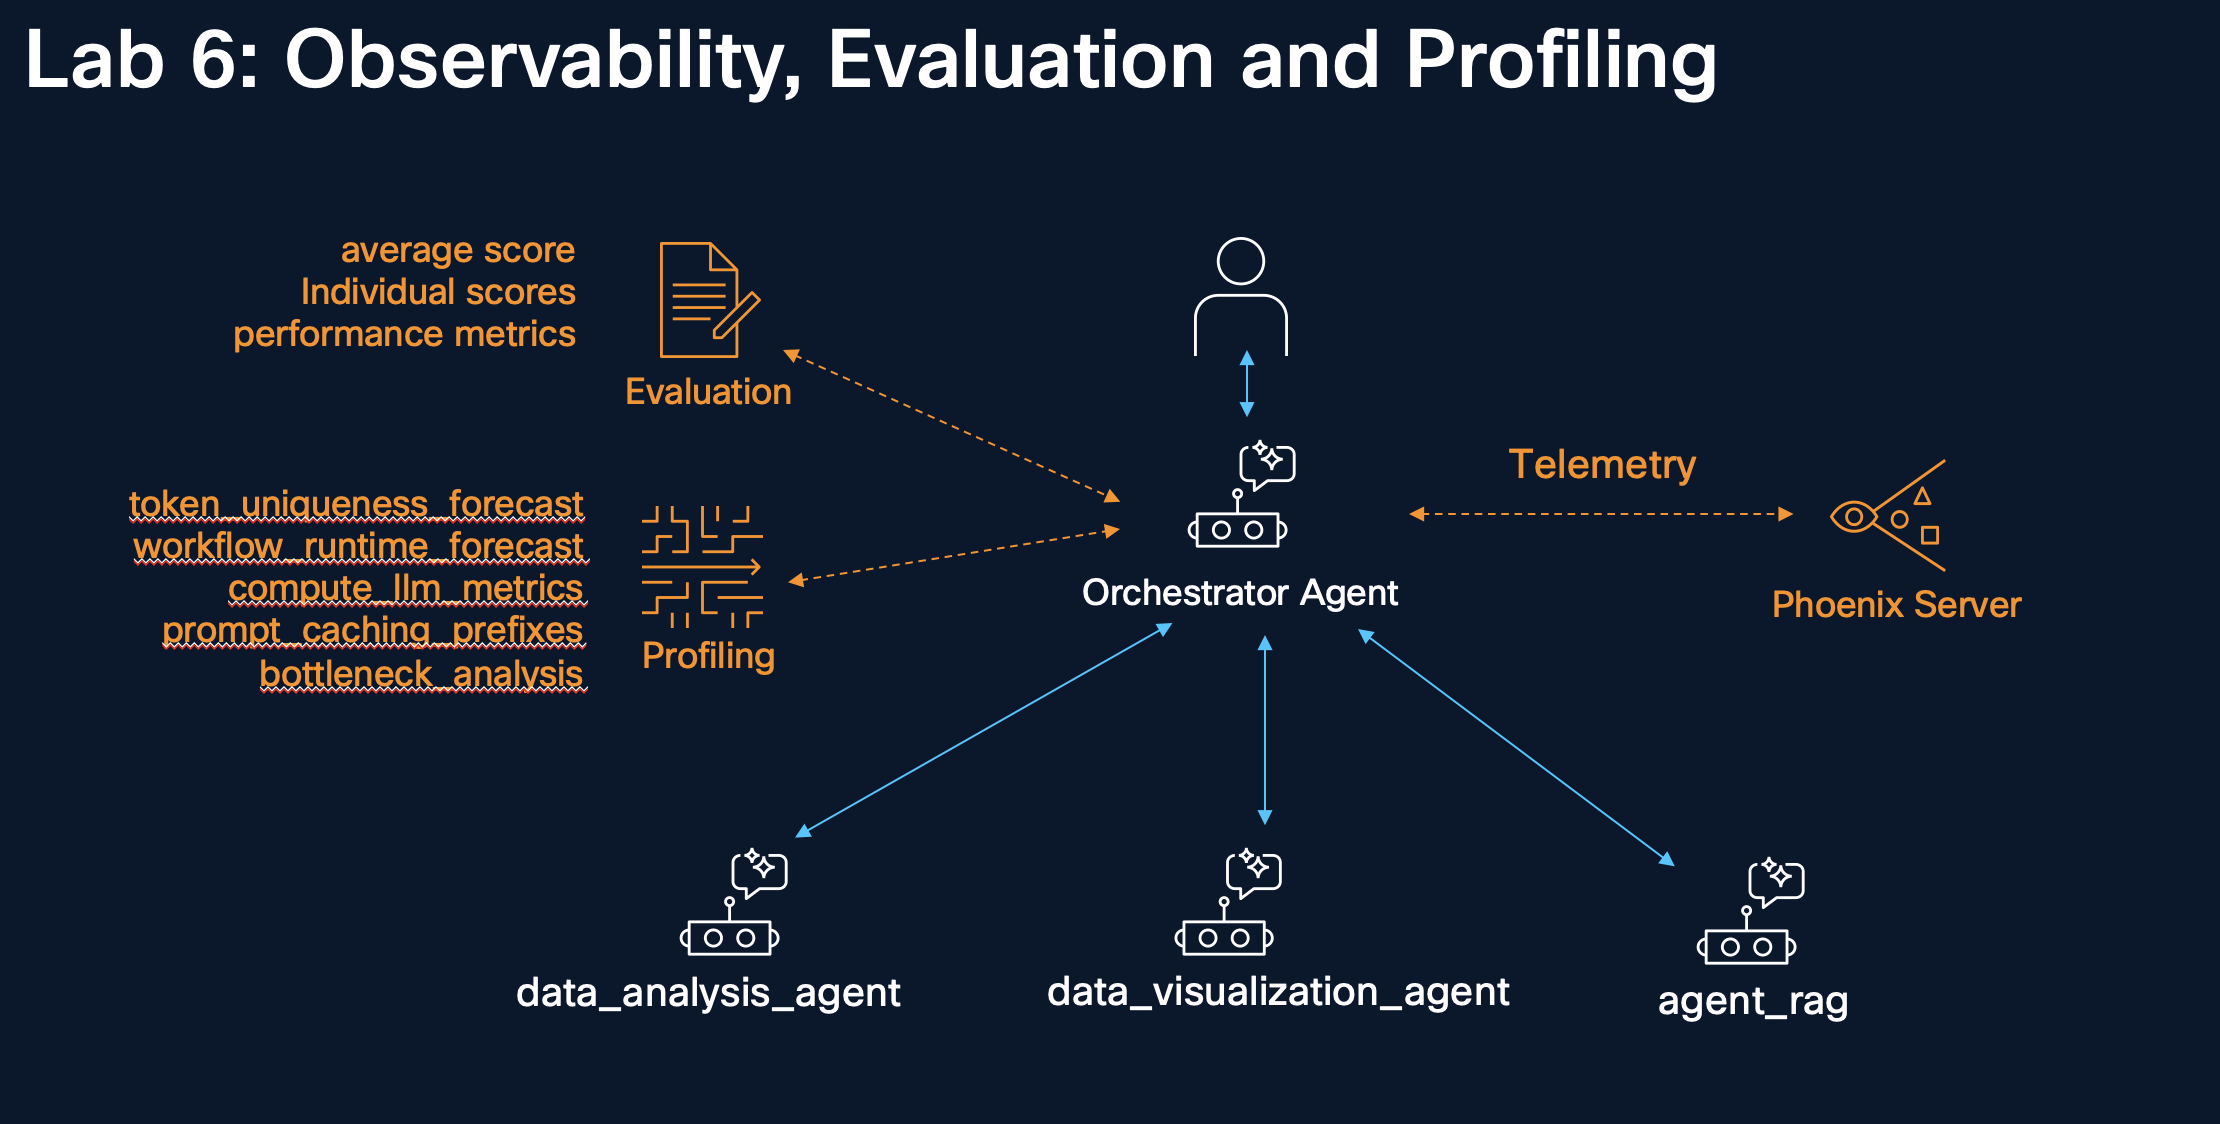
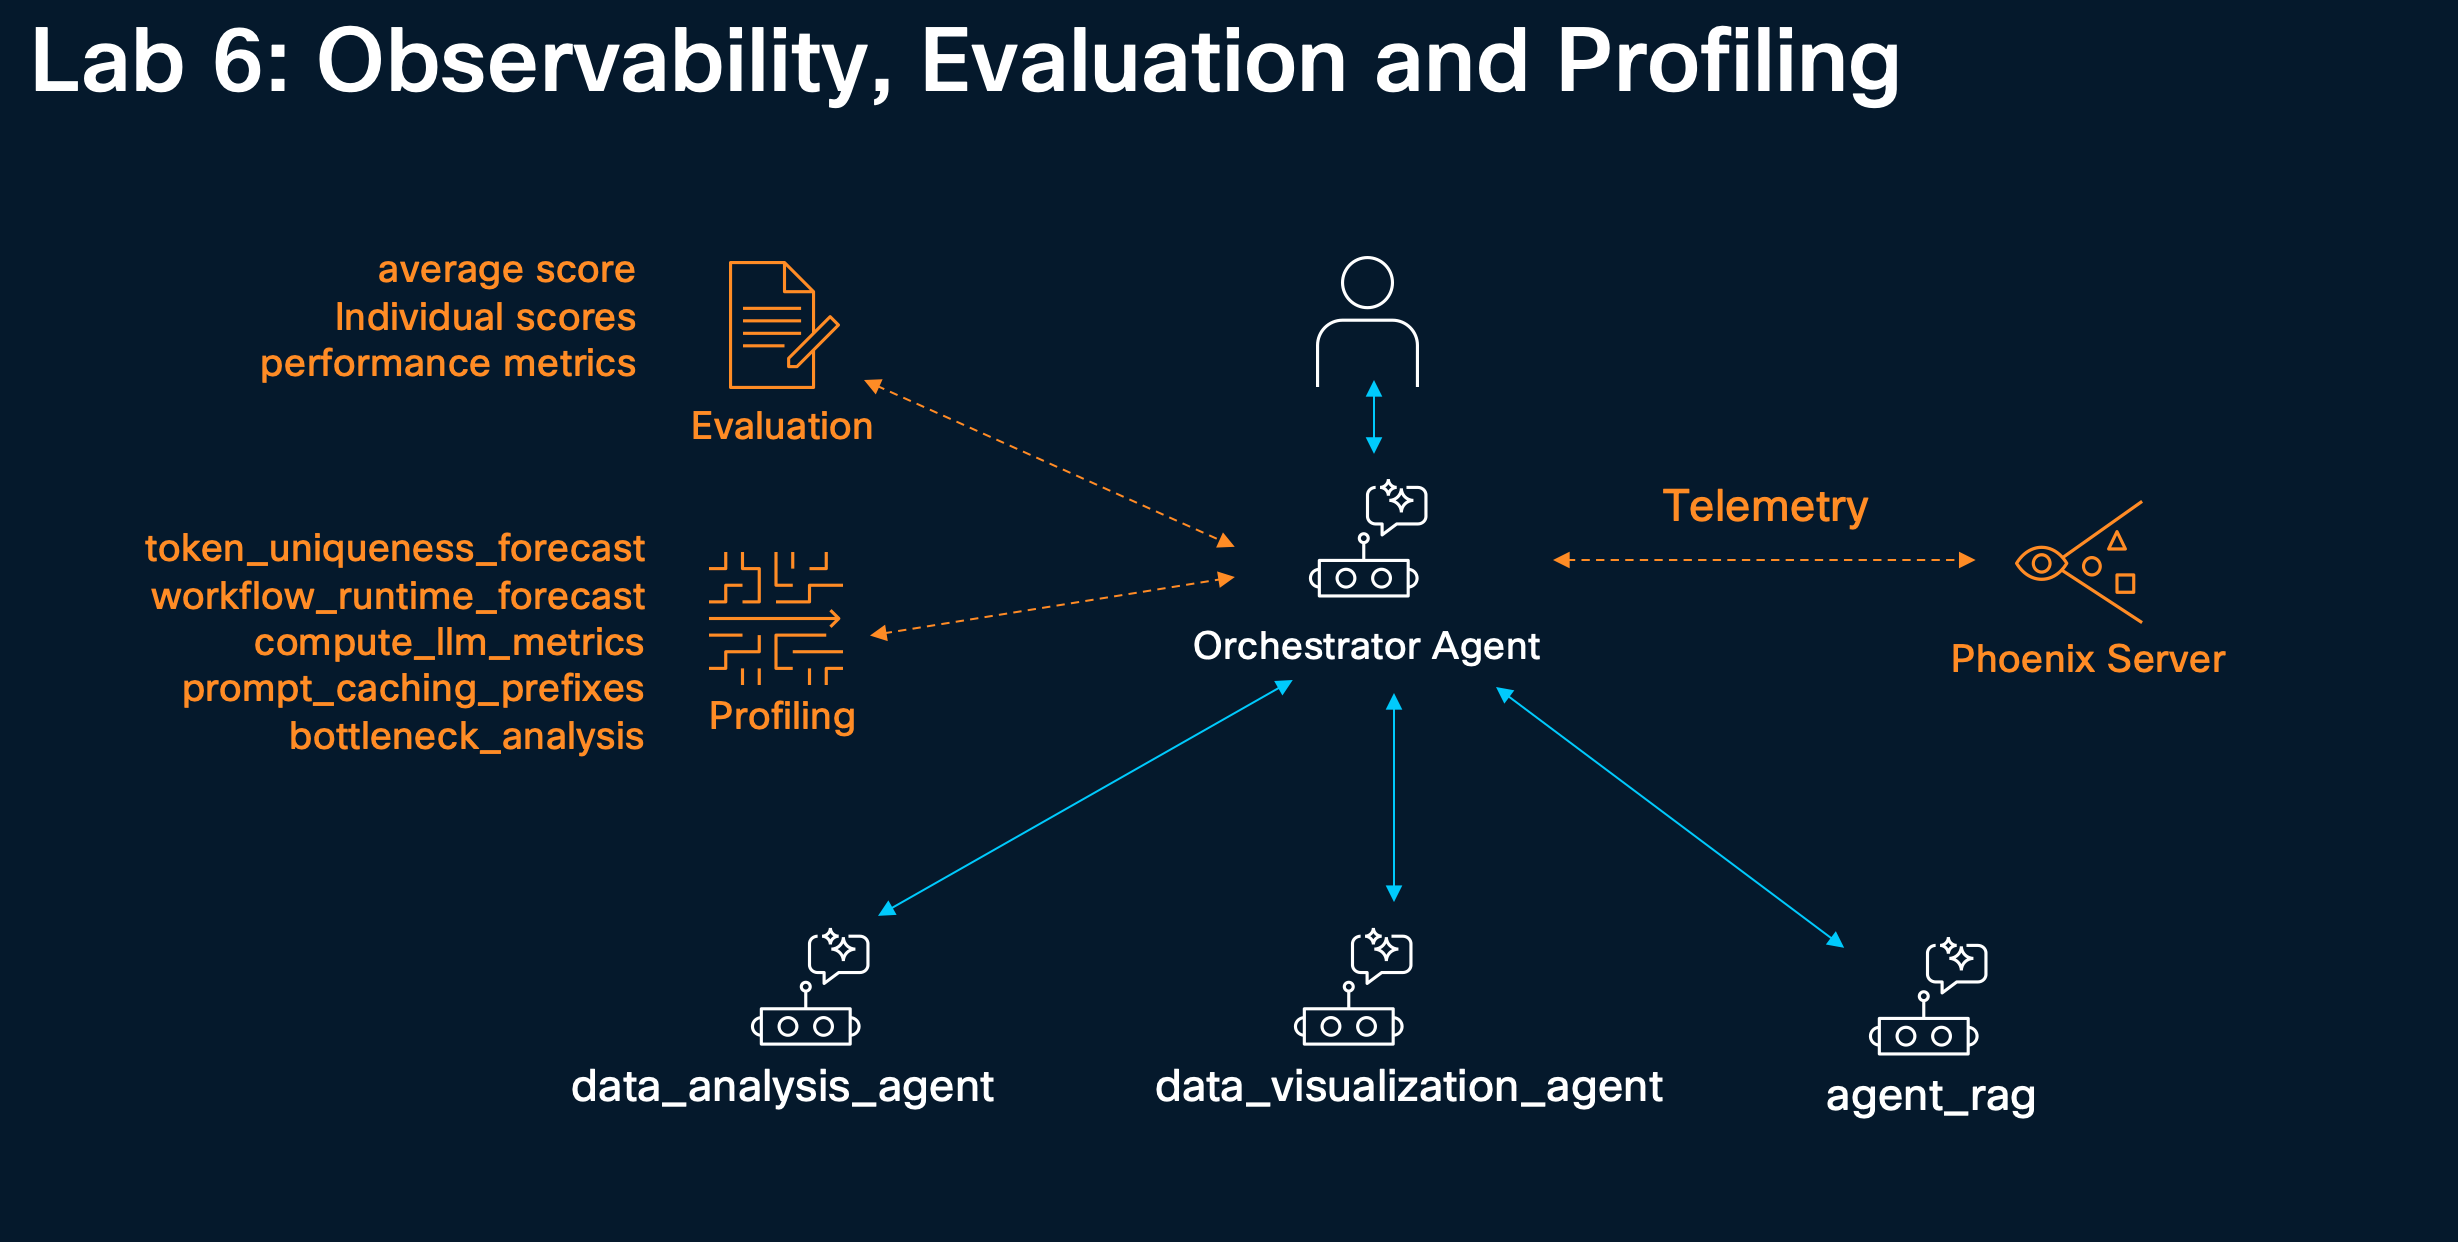
update

diff --git a/600-observability-evaluation-profiling.md b/600-observability-evaluation-profiling.md
@@ -75,7 +75,7 @@ functions:
     embedder_name: azure_embedder
     collection_name: product_catalog_rag
     data_dir: data/rag/
-    description: "Search product catalog for TabZen tablet, AeroBook laptop, NovaPhone specifications"
+    description: "Search product catalog for Ark S12 Ultra tablet, TabZen tablet, AeroBook laptop and NovaPhone phone specifications"
 
   rag_agent:
     _type: react_agent
@@ -426,7 +426,7 @@ The profiler runs as part of the `nat eval` command. When properly configured, i
 ```bash
 cd ~/nemo-agent-toolkit/
 nat eval --config_file retail_sales_agent/configs/config_profile.yml
-cp gantt_chart.png /var/www/html/lab/images/gantt_chart.png
+cp ./profile_output/gantt_chart.png /var/www/html/lab/images/gantt_chart.png
 ```
 
 ### 6.6.4 Understanding Profiler Output Files
@@ -469,6 +469,10 @@ We can also view a Gantt chart of the profile run:
 src: 'lab/images/gantt_chart.png'}); return false;">
 Open Gantt Chart
 </a>
+
+You should have a similar chart:
+
+![alt text](./images/gantt_chart.png)
 
 
 ## 6.7 Lab Summary

diff --git a/500-human-in-the-loop.md b/500-human-in-the-loop.md
@@ -459,7 +459,7 @@ functions:
     embedder_name: azure_embedder
     collection_name: product_catalog_rag
     data_dir: data/rag/
-    description: "Search product catalog for TabZen tablet, AeroBook laptop, NovaPhone specifications"
+    description: "Search product catalog for Ark S12 Ultra tablet, TabZen tablet, AeroBook laptop and NovaPhone phone specifications"
 
   rag_agent:
     _type: react_agent
